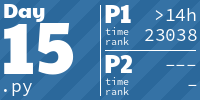
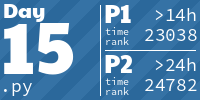
Day 15, part 2 - 2022

Changed region(s): [[0.72, 0.78, 0.99, 0.93], [0.78, 0.57, 0.99, 0.72]]

diff --git a/ibidem/advent_of_code/y2022/dec15.py b/ibidem/advent_of_code/y2022/dec15.py
@@ -2,6 +2,8 @@
 import re
 from collections import namedtuple
 
+from alive_progress import alive_it
+
 from ibidem.advent_of_code.util import get_input_name, time_this
 
 INPUT_PATTERN = re.compile(r"Sensor at x=(-?\d+), y=(-?\d+): closest beacon is at x=(-?\d+), y=(-?\d+)")
@@ -35,20 +37,48 @@ def part1(pairs, depth=2000000):
     for sensor, beacon in pairs:
         distance = (sensor - beacon).manhattan()
         if depth not in range(sensor.y - distance, sensor.y + distance):
-            # print(f"Sensor at {sensor} with closest beacon at {beacon} is out of range from depth {depth}, ignoring")
             continue
         rem = distance - abs(sensor.y - depth)
         for x in range(sensor.x - rem, sensor.x + rem + 1):
             line[(x, depth)] = 1
-        if sensor.y == depth:
-            line[(sensor.x, sensor.y)] = 1
         if beacon.y == depth:
             line[(beacon.x, beacon.y)] = 0
     return sum(line.values())
 
 
+def remove(possible_row, slice):
+    new_row = []
+    for element in possible_row:
+        if slice[1] < element[0]:
+            new_row.append(element)
+        elif slice[0] > element[1]:
+            new_row.append(element)
+        elif slice[0] > element[0] and slice[1] < element[1]:
+            new_row.append((element[0], slice[0] - 1))
+            new_row.append((slice[1] + 1, element[1]))
+        elif slice[0] <= element[0] and slice[1] >= element[1]:
+            pass
+        elif slice[0] <= element[0] <= slice[1]:
+            new_row.append((slice[1] + 1, element[1]))
+        elif slice[0] <= element[1] <= slice[1]:
+            new_row.append((element[0], slice[0] - 1))
+    return new_row
+
+
+@time_this
 def part2(pairs, max=4000000):
-    return None
+    for y in alive_it(range(max + 1)):
+        line = [(0, max)]
+        for sensor, beacon in pairs:
+            distance = (sensor - beacon).manhattan()
+            if (sensor.y - distance) < y <= (sensor.y + distance):
+                rem = distance - abs(sensor.y - y)
+                line = remove(line, (sensor.x - rem, sensor.x + rem))
+            if not line:
+                break
+        if line:
+            coord = line[0]
+            return coord[0] * TUNING_FREQ_MULTIPLIER + y
 
 
 if __name__ == "__main__":

diff --git a/ibidem/advent_of_code/y2022/test/test_dec15.py b/ibidem/advent_of_code/y2022/test/test_dec15.py
@@ -2,7 +2,7 @@ import io
 
 import pytest
 
-from ibidem.advent_of_code.y2022.dec15 import load, part1, part2
+from ibidem.advent_of_code.y2022.dec15 import load, part1, part2, remove
 
 TEST_INPUT = io.StringIO("""\
 Sensor at x=2, y=18: closest beacon is at x=-2, y=15
@@ -51,3 +51,46 @@ class TestDec15():
     def test_part2(self, loaded):
         result = part2(loaded, max=20)
         assert result == PART2_RESULT
+
+    @pytest.mark.parametrize("cut, expected", (
+            ((0, 4), [(5, 15)]),
+            ((0, 5), [(6, 15)]),
+            ((0, 6), [(7, 15)]),
+            ((14, 20), [(5, 13)]),
+            ((15, 20), [(5, 14)]),
+            ((16, 20), [(5, 15)]),
+            ((7, 10), [(5, 6), (11, 15)]),
+            ((4, 16), []),
+            ((4, 10), [(11, 15)]),
+            ((5, 10), [(11, 15)]),
+            ((6, 10), [(5, 5), (11, 15)]),
+            ((10, 16), [(5, 9)]),
+            ((10, 15), [(5, 9)]),
+            ((10, 14), [(5, 9), (15, 15)]),
+    ))
+    def test_remove_single(self, cut, expected):
+        line = [(5, 15)]
+        actual = remove(line, cut)
+        assert actual == expected
+
+    @pytest.mark.parametrize("cut, expected", (
+            ((0, 4), [(5, 10), (15, 20)]),
+            ((0, 5), [(6, 10), (15, 20)]),
+            ((0, 6), [(7, 10), (15, 20)]),
+            ((14, 20), [(5, 10)]),
+            ((15, 20), [(5, 10)]),
+            ((16, 20), [(5, 10), (15, 15)]),
+            ((7, 10), [(5, 6), (15, 20)]),
+            ((4, 16), [(17, 20)]),
+            ((4, 10), [(15, 20)]),
+            ((5, 10), [(15, 20)]),
+            ((6, 10), [(5, 5), (15, 20)]),
+            ((10, 16), [(5, 9), (17, 20)]),
+            ((10, 15), [(5, 9), (16, 20)]),
+            ((10, 14), [(5, 9), (15, 20)]),
+            ((0, 20), []),
+    ))
+    def test_remove_multi(self, cut, expected):
+        line = [(5, 10), (15, 20)]
+        actual = remove(line, cut)
+        assert actual == expected
